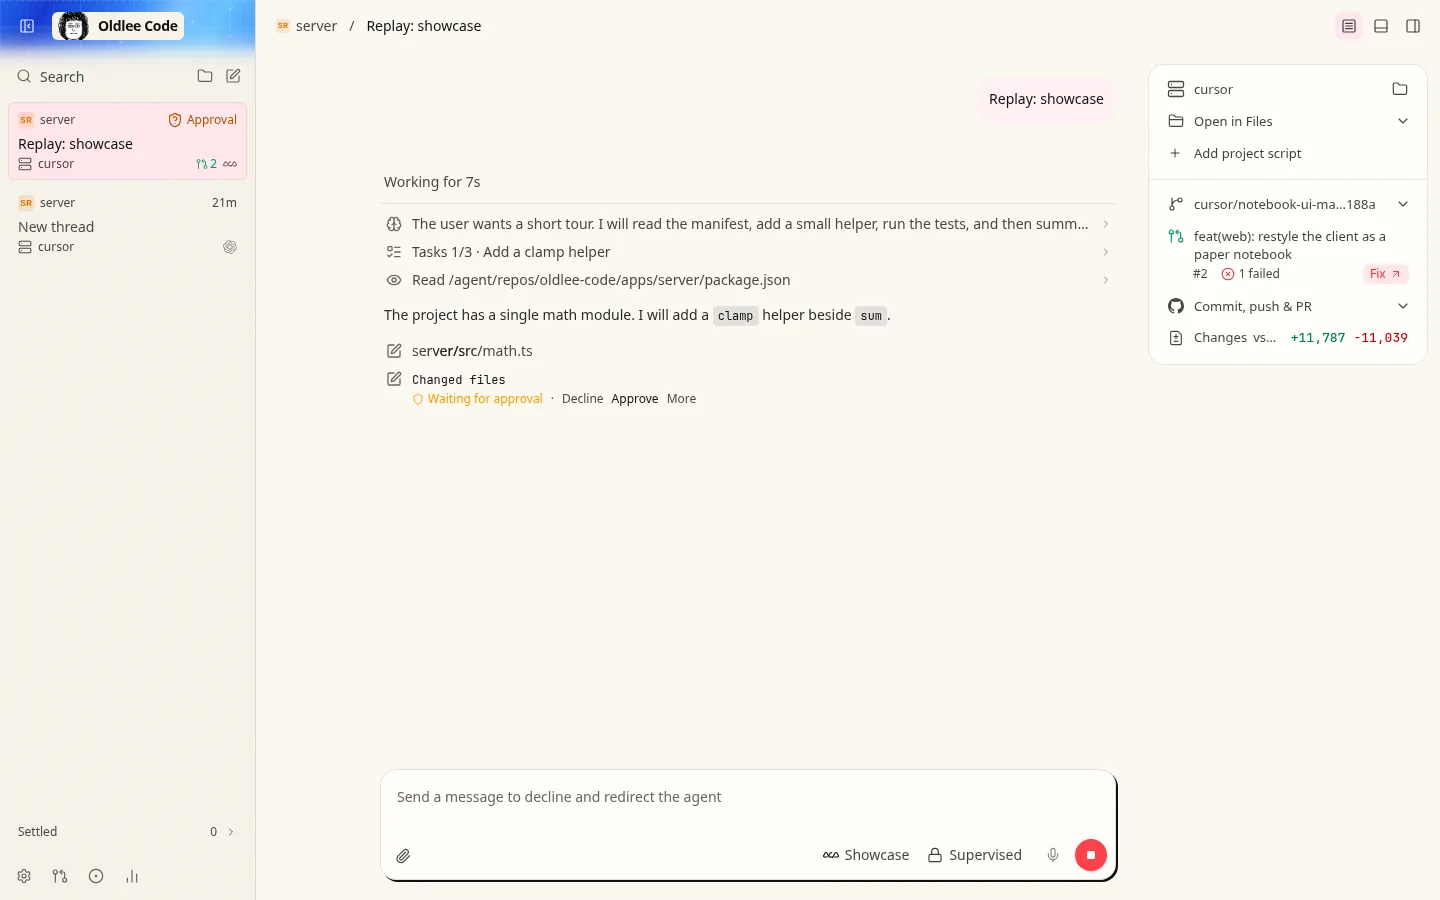
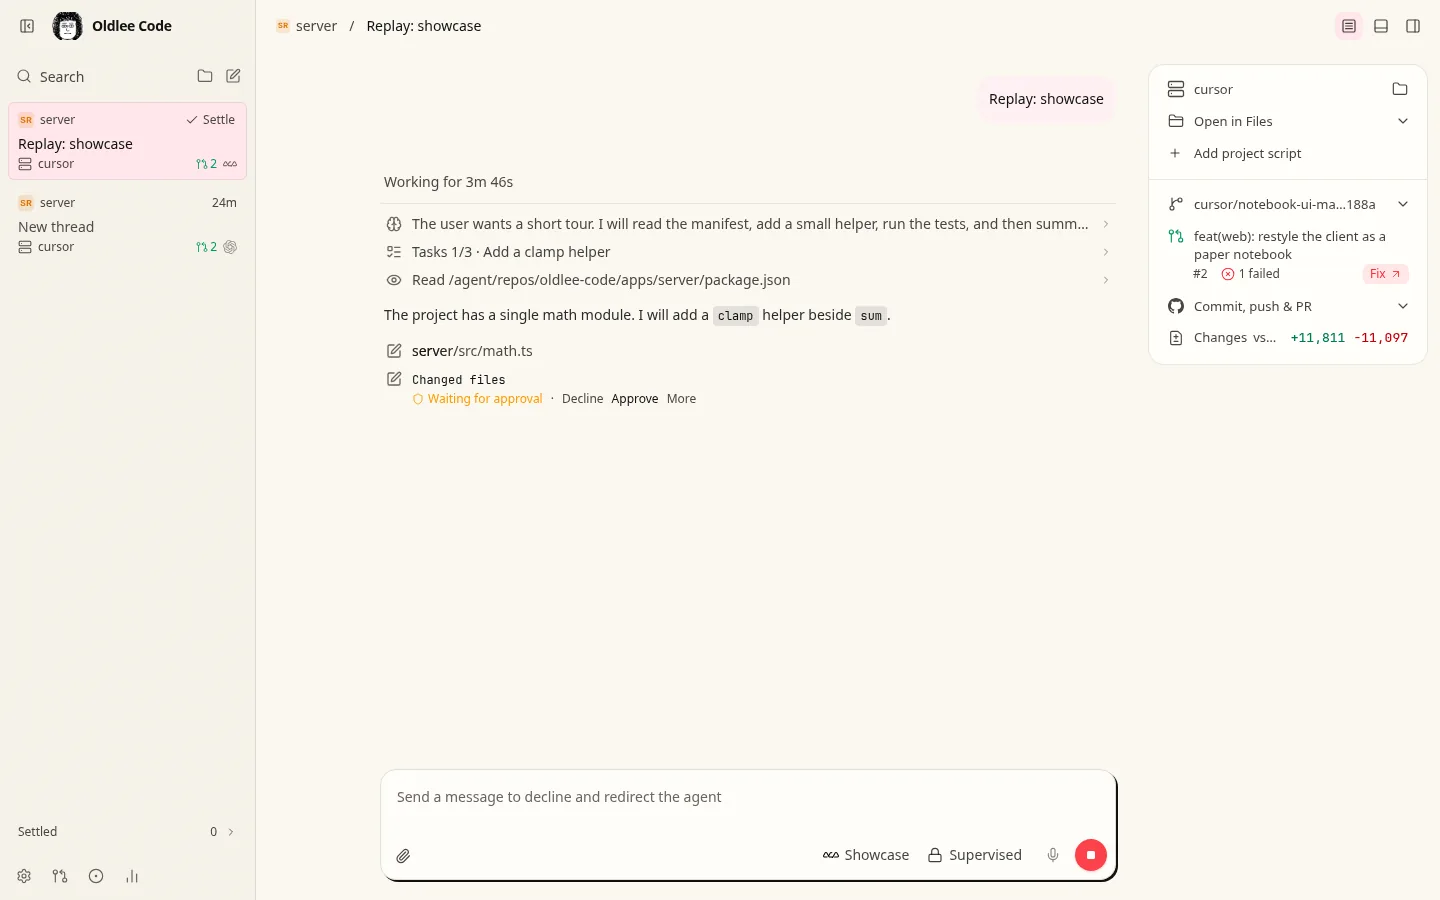
fix(web): drop the channel glow behind the sidebar brand
The header is paper in light and ink in dark, and the Oldlee Code lockup is no longer a boxed pill.

Model: Grok 4.7. Harness: Cursor cloud agent.

Changed region(s): [[0.0, 0.0, 0.1875, 0.0622], [0.0938, 0.1244, 0.1562, 0.1556]]

diff --git a/apps/web/src/components/sidebar/SidebarChrome.tsx b/apps/web/src/components/sidebar/SidebarChrome.tsx
@@ -18,8 +18,6 @@ import { useIssuesSupported, usePullRequestsSupported } from "../../state/enviro
 import { Mascot } from "../Mascot";
 import {
   resolveEnvironmentIdentificationPillLabel,
-  resolveSidebarStageBackdropVariant,
-  SidebarStageBackdrop,
   useEnvironmentStageLabel,
 } from "../SidebarStageBackdrop";
 import { Badge } from "../ui/badge";
@@ -51,10 +49,6 @@ export const SidebarChromeHeader = memo(function SidebarChromeHeader({
   const stageLabel = useEnvironmentStageLabel();
   const environmentIdentificationMode = useEnvironmentIdentificationMode();
   const gt = useGT();
-  const backdropVariant = resolveSidebarStageBackdropVariant(
-    stageLabel,
-    environmentIdentificationMode,
-  );
   const pillLabel =
     environmentIdentificationMode === "pill"
       ? resolveEnvironmentIdentificationPillLabel(stageLabel)
@@ -67,21 +61,20 @@ export const SidebarChromeHeader = memo(function SidebarChromeHeader({
         isElectron && "drag-region",
       )}
     >
-      {backdropVariant ? <SidebarStageBackdrop variant={backdropVariant} /> : null}
       <div className="relative top-[calc(var(--workspace-controls-top)-env(safe-area-inset-top))] z-10 ml-[calc(var(--workspace-controls-left)+1px-env(safe-area-inset-left))] flex shrink-0 items-center md:hidden">
         <SidebarTrigger
-          variant={backdropVariant ? "media-navigation" : "ghost"}
+          variant="ghost"
           className="relative top-auto translate-y-0"
           aria-label={gt("Toggle main sidebar")}
         />
       </div>
       <div className="relative z-10 flex h-8 min-w-0 flex-1 flex-wrap content-start items-center gap-x-2 overflow-hidden py-0.5">
         <div className="flex shrink-0 items-center gap-1">
-          <SidebarBrand onBackdrop={backdropVariant !== null} />
+          <SidebarBrand />
           {isElectron ? (
             <div className="hidden items-center md:flex">
-              <HistoryNavigationButton direction="back" onBackdrop={backdropVariant !== null} />
-              <HistoryNavigationButton direction="forward" onBackdrop={backdropVariant !== null} />
+              <HistoryNavigationButton direction="back" />
+              <HistoryNavigationButton direction="forward" />
             </div>
           ) : null}
         </div>
@@ -117,20 +110,14 @@ export function SidebarBrandWidthProbe({
       ref={observeWidth}
     >
       <div className="ml-[var(--workspace-titlebar-content-left)] flex gap-1">
-        <SidebarBrandMark onBackdrop={false} />
+        <SidebarBrandMark />
         {isElectron ? <div className="w-[calc(2*var(--workspace-titlebar-control-size))]" /> : null}
       </div>
     </div>
   );
 }
 
-function HistoryNavigationButton({
-  direction,
-  onBackdrop,
-}: {
-  direction: HistoryDirection;
-  onBackdrop: boolean;
-}) {
+function HistoryNavigationButton({ direction }: { direction: HistoryDirection }) {
   const keybindings = useAtomValue(primaryServerKeybindingsAtom);
   const enabled = useCanNavigateHistory(direction);
   const gt = useGT();
@@ -146,14 +133,11 @@ function HistoryNavigationButton({
         render={
           <Button
             aria-label={label}
-            className={cn(
-              "[-webkit-app-region:no-drag]",
-              onBackdrop && "relative top-auto translate-y-0",
-            )}
+            className="[-webkit-app-region:no-drag]"
             disabled={!enabled}
             onClick={() => navigateHistory(direction)}
             size="icon-sm"
-            variant={onBackdrop ? "media-navigation" : "ghost"}
+            variant="ghost"
           />
         }
       >
@@ -167,30 +151,22 @@ function HistoryNavigationButton({
   );
 }
 
-function SidebarBrand({ onBackdrop }: { onBackdrop: boolean }) {
+function SidebarBrand() {
   const gt = useGT();
   return (
     <Link
       aria-label={gt("Oldlee Code home")}
-      className={cn(
-        "relative z-10 ml-[var(--workspace-titlebar-content-left)] hidden h-7 w-fit min-w-0 shrink-0 items-center overflow-hidden rounded-md outline-hidden ring-ring focus-visible:ring-2 focus-visible:ring-inset md:flex",
-        onBackdrop ? "text-white" : "text-foreground",
-      )}
+      className="relative z-10 ml-[var(--workspace-titlebar-content-left)] hidden h-7 w-fit min-w-0 shrink-0 items-center overflow-hidden rounded-md text-foreground outline-hidden ring-ring focus-visible:ring-2 focus-visible:ring-inset md:flex"
       to="/"
     >
-      <SidebarBrandMark onBackdrop={onBackdrop} />
+      <SidebarBrandMark />
     </Link>
   );
 }
 
-function SidebarBrandMark({ onBackdrop }: { onBackdrop: boolean }) {
+function SidebarBrandMark() {
   return (
-    <span
-      className={cn(
-        "inline-flex min-w-0 items-center gap-2 text-sm font-semibold tracking-tight text-sidebar-foreground",
-        onBackdrop && "rounded-md bg-sidebar px-1.5 py-0.5",
-      )}
-    >
+    <span className="inline-flex min-w-0 items-center gap-2 text-sm font-semibold tracking-tight text-sidebar-foreground">
       <Mascot
         pose="plain"
         className="size-8 shrink-0 rounded-full bg-white object-cover object-[center_16%]"

diff --git a/apps/web/src/components/AppSidebarLayout.tsx b/apps/web/src/components/AppSidebarLayout.tsx
@@ -33,7 +33,6 @@ import { selectActiveRightPanel, useRightPanelStore } from "../rightPanelStore";
 import { selectThreadTerminalUiState, useTerminalUiStateStore } from "../terminalUiStateStore";
 import { cn, isMacPlatform } from "../lib/utils";
 import { primaryServerKeybindingsAtom } from "../state/server";
-import { useEnvironmentIdentificationMode } from "../hooks/useSettings";
 import {
   PanelAnimationSuppressionProvider,
   usePanelAnimationSettings,
@@ -45,7 +44,6 @@ import ThreadSidebar from "./Sidebar";
 import { SidebarBrandWidthProbe } from "./sidebar/SidebarChrome";
 import { isAppModalPage } from "./sidebar/mainAppLocation";
 import type { SidebarRouteReveal } from "./sidebar/routeReveal";
-import { useSidebarStageBackdropVariant } from "./SidebarStageBackdrop";
 import {
   clampThreadSidebarWidth,
   resolveInitialThreadSidebarWidth,
@@ -61,7 +59,6 @@ import {
   SidebarTrigger,
   useMobileSidebarSheetMounted,
   useSidebar,
-  useSidebarVisibility,
 } from "./ui/sidebar";
 import { Tooltip, TooltipPopup, TooltipTrigger } from "./ui/tooltip";
 import { appAtomRegistry } from "../rpc/atomRegistry";
@@ -321,9 +318,6 @@ function SidebarControl({ showSidebar }: { readonly showSidebar: boolean }) {
   const keybindings = useAtomValue(primaryServerKeybindingsAtom);
   const { toggleSidebar } = useSidebar();
   const mobileSidebarSheetMounted = useMobileSidebarSheetMounted();
-  const isSidebarVisible = useSidebarVisibility();
-  const environmentIdentificationMode = useEnvironmentIdentificationMode();
-  const stageBackdropVariant = useSidebarStageBackdropVariant(environmentIdentificationMode);
   const shortcutLabel = shortcutLabelForCommand(keybindings, "sidebar.toggle", {
     context: { usagePageOpen },
   });
@@ -397,11 +391,8 @@ function SidebarControl({ showSidebar }: { readonly showSidebar: boolean }) {
           <TooltipTrigger
             render={
               <SidebarTrigger
-                variant={isSidebarVisible && stageBackdropVariant ? "media-navigation" : "ghost"}
-                className={cn(
-                  "pointer-events-auto",
-                  isSidebarVisible && stageBackdropVariant && "relative top-auto translate-y-0",
-                )}
+                variant="ghost"
+                className="pointer-events-auto"
                 aria-label={gt("Toggle main sidebar")}
               />
             }
